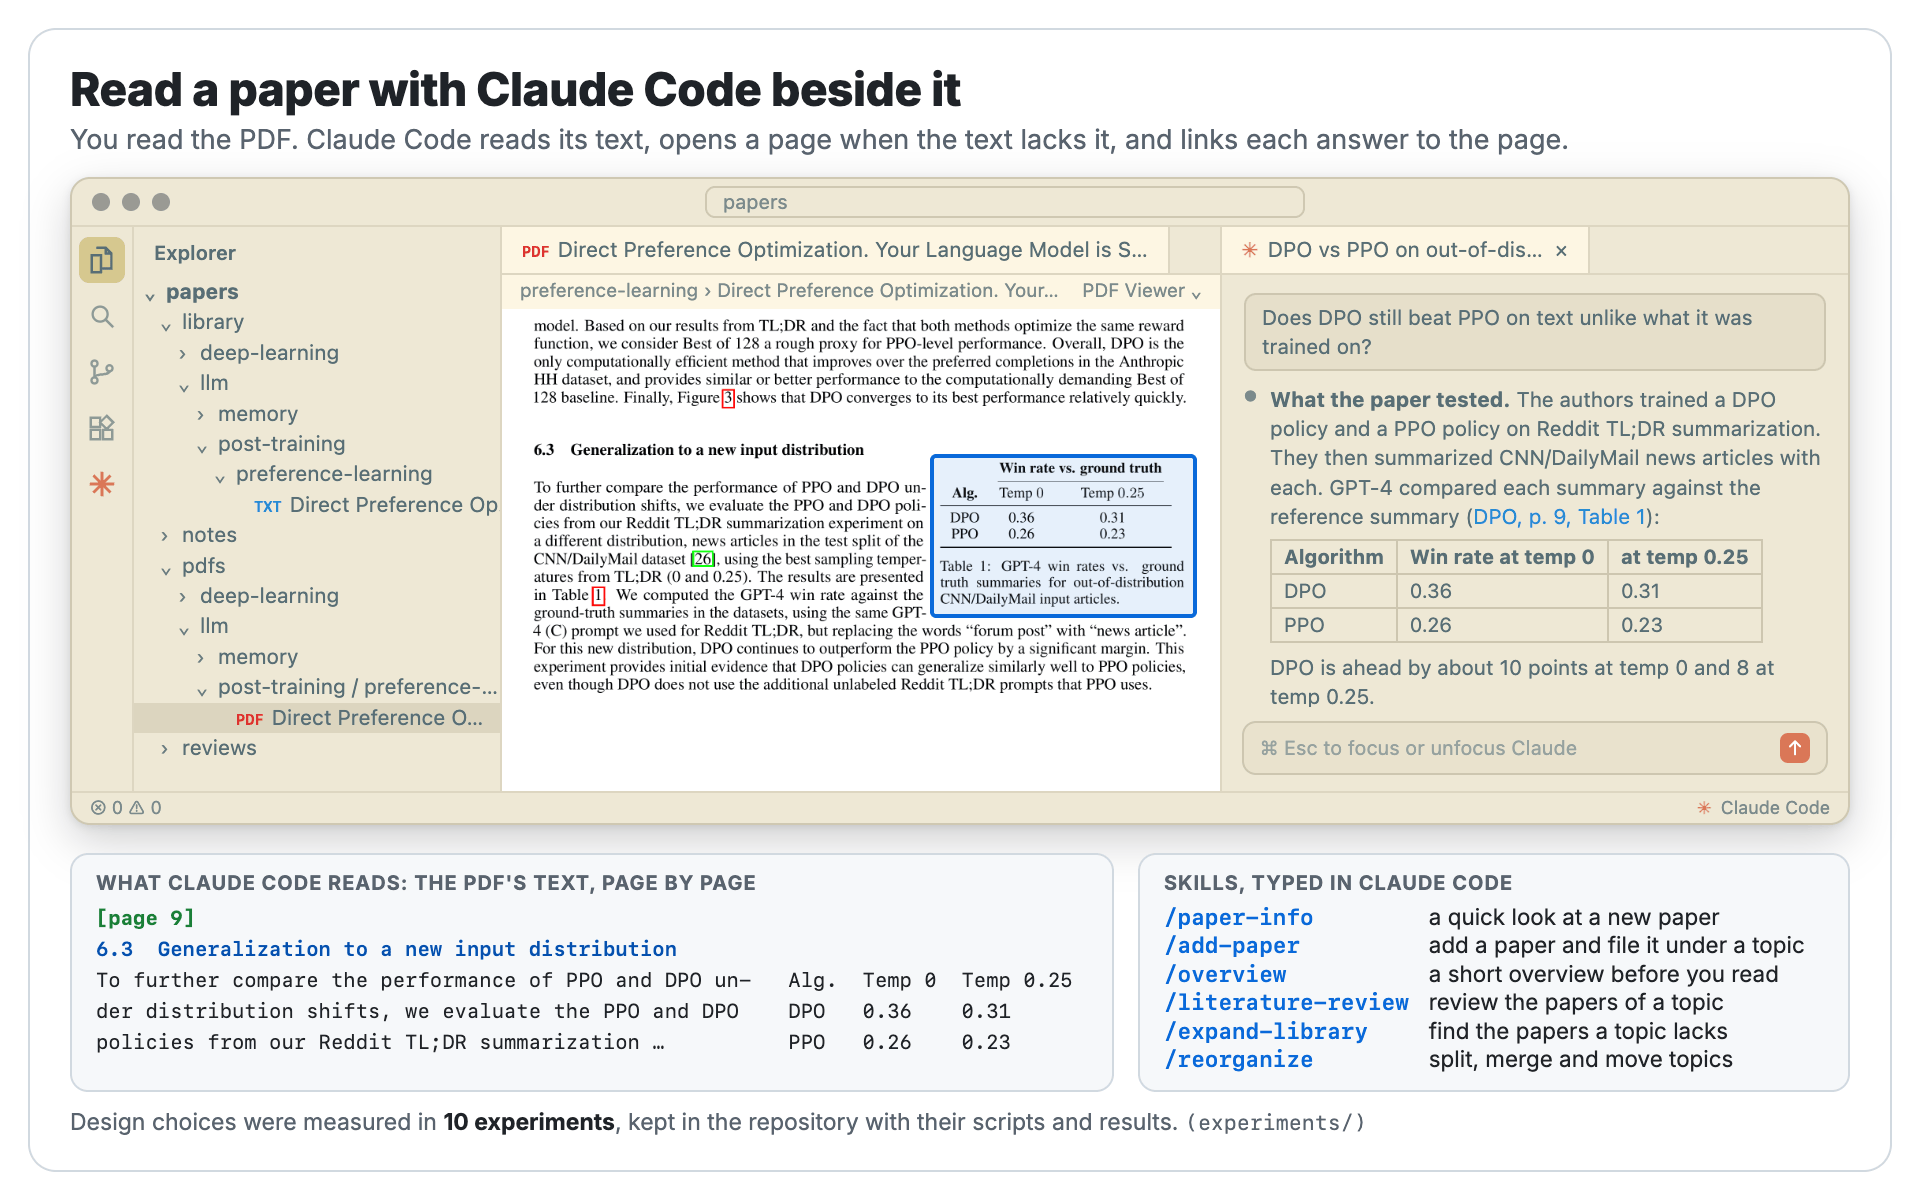
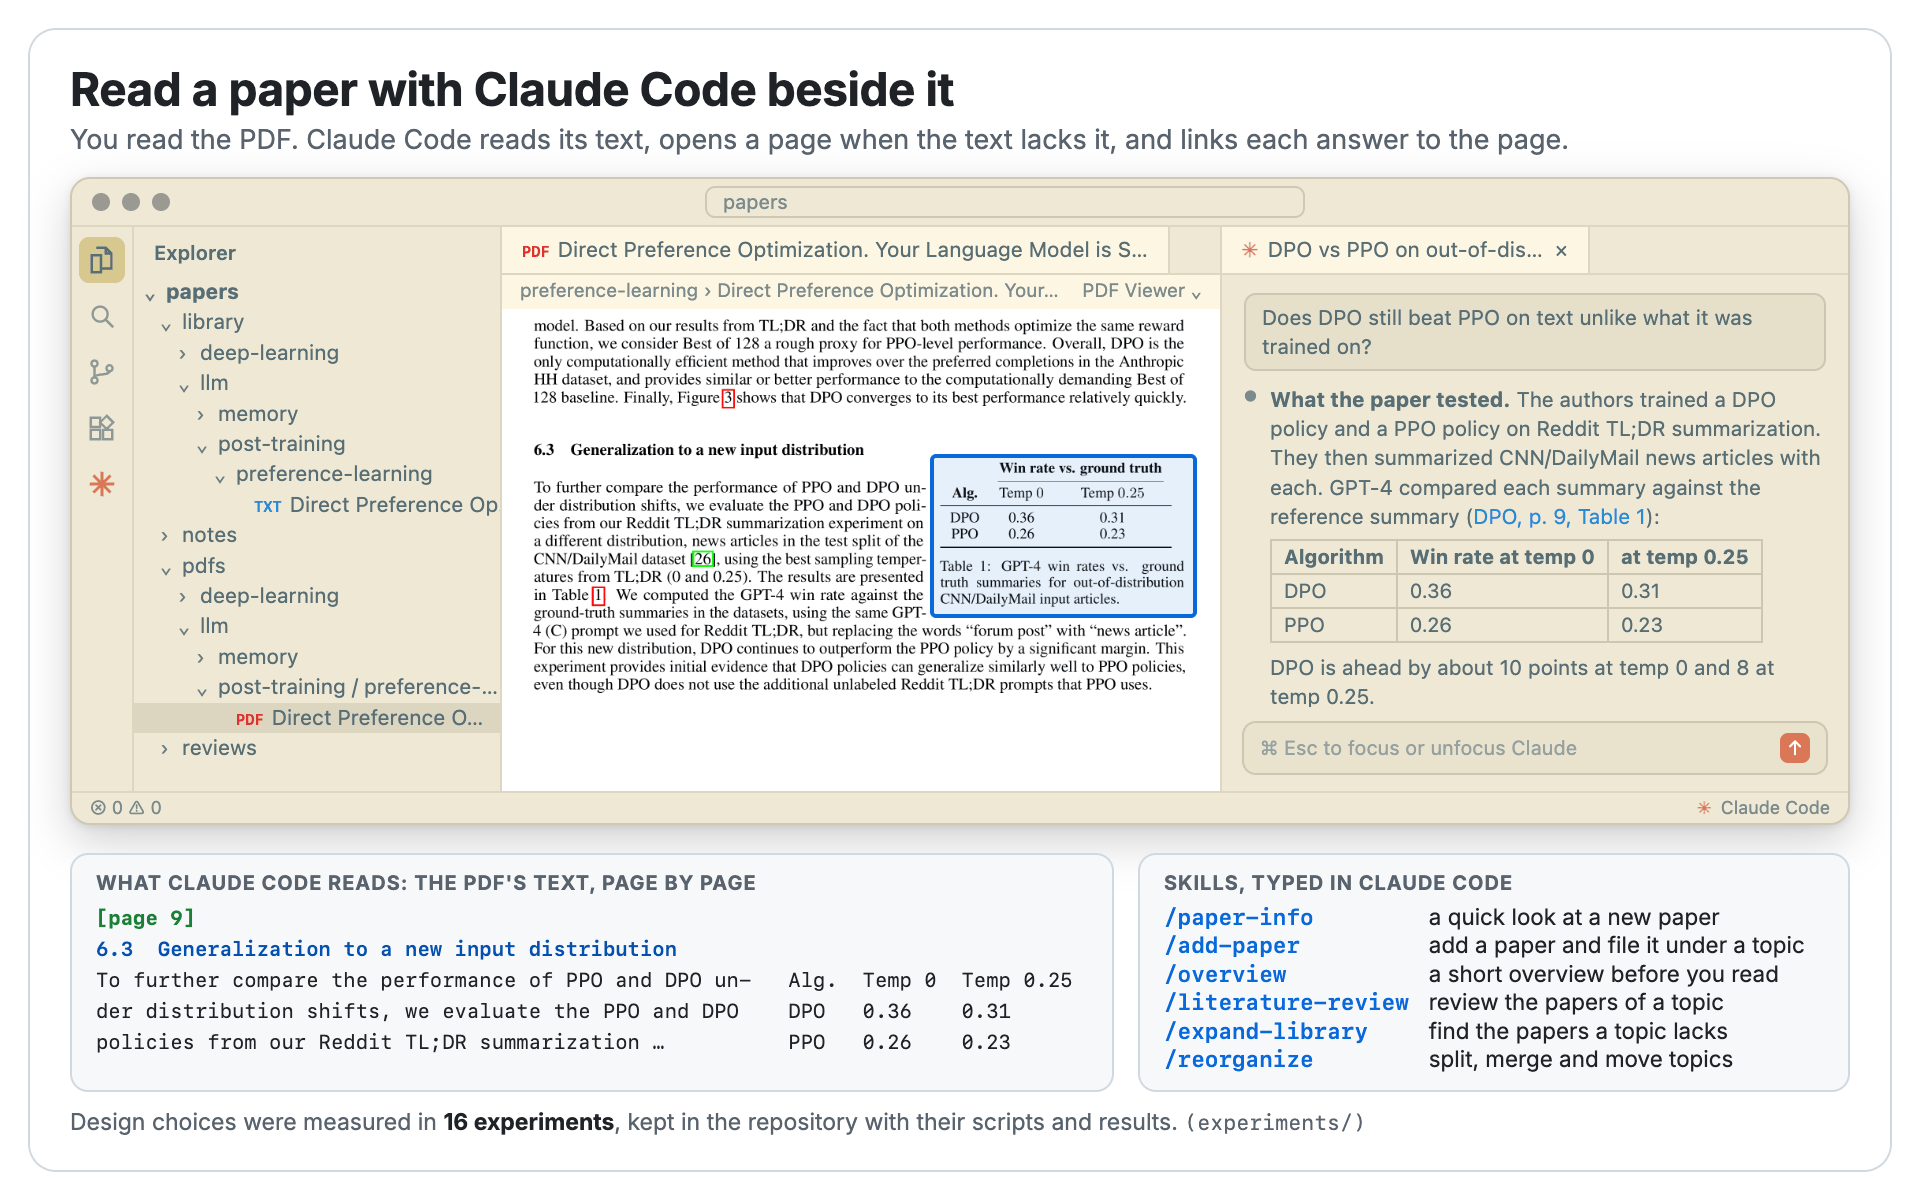
Count 16 experiments, and add meaning search to the experiments picture

diff --git a/assets/pictures/experiments.html b/assets/pictures/experiments.html
@@ -1,10 +1,11 @@
 <!doctype html>
 <!--
-  Source of assets/pictures/experiments.png. Six rows, each from one write-up under experiments/:
-  reading-formats (two rows: tiers B and D, and tier F), web-articles, skill-models, reading-models and
+  Source of assets/pictures/experiments.png. Seven rows, each from one write-up under experiments/:
+  reading-formats (two rows: tiers B and D, and tier F), web-articles, skill-models, reading-models,
   review-usefulness (its second run, of 6 Oct 2026: the sums over the three questions a review
-  covers). The count of 10 is the number of rows in experiments/README.md, which also
-  gives the size of the author's library. Render with assets/pictures/render.sh experiments.
+  covers) and meaning-search (its status line: nDCG@10 on the 32 judged queries). The count of 16
+  is the number of rows in experiments/README.md, which also gives the size of the author's
+  library. Render with assets/pictures/render.sh experiments.
 -->
 <html lang="en">
 <head>
@@ -13,7 +14,7 @@
 <title>Design choices were measured</title>
 <link rel="stylesheet" href="style.css">
 <style>
-  .t { flex: 1 1 auto; display: grid; grid-template-columns: 252px 1fr 236px; grid-template-rows: 26px repeat(6, 1fr); border: 1px solid var(--line); border-radius: 10px; overflow: hidden; }
+  .t { flex: 1 1 auto; display: grid; grid-template-columns: 252px 1fr 236px; grid-template-rows: 26px repeat(7, 1fr); border: 1px solid var(--line); border-radius: 10px; overflow: hidden; }
   .t > div { padding: 0 14px; display: flex; flex-direction: column; justify-content: center; border-top: 1px solid var(--line); font-size: 11.6px; line-height: 1.36; min-width: 0; }
   .t > .th { border-top: 0; background: var(--panel); font: 700 10px Inter, sans-serif; letter-spacing: .06em; text-transform: uppercase; color: var(--muted); height: 26px; }
   .t .q { font-weight: 700; font-size: 13px; }
@@ -29,7 +30,7 @@
 <div class="frame">
   <div class="head big">
     <h1>Design choices were measured</h1>
-    <span class="sub">Each choice of format, converter, prompt and model was tested on real papers before it was adopted. Six of the 10 experiments:</span>
+    <span class="sub">Each choice of format, converter, prompt and model was tested on real papers before it was adopted. Seven of the 16 experiments:</span>
   </div>
 
   <div class="t">
@@ -58,9 +59,13 @@
     <div class="q">Answer from the review, or from the papers?<span class="exp">(experiments/review-usefulness)</span></div>
     <div class="m"><span>Starting from the review, then checking the paper: <b>4.7</b> wrong statements over three questions and <b>22% fewer tokens</b>. Without reviews: 6.3 wrong; without reviews or notes: 3.3. The answers were no more complete.</span></div>
     <div class="d">Start from the review, and check the paper before stating a number</div>
+
+    <div class="q">Which encoder finds the papers a reader describes?<span class="exp">(experiments/meaning-search)</span></div>
+    <div class="m"><span>2,275 papers, 32 queries worded as a reader would, the pooled top 10s graded. nDCG@10: <code>Qwen3-Embedding-0.6B</code> <b>0.752</b>, keyword search (BM25) <b>0.504</b>. The abstract carries the meaning; the one-line summary alone does not.</span></div>
+    <div class="d"><span><code>Qwen3-Embedding-0.6B</code>, on title, summary and abstract</span></div>
   </div>
 
-  <div class="foot"><b>10 experiments</b> are in the repository (<span class="exp" style="font-size: 11px">experiments/</span>), each with its method, scripts and results. Used by the author on a library of about 2,300 papers.</div>
+  <div class="foot"><b>16 experiments</b> are in the repository (<span class="exp" style="font-size: 11px">experiments/</span>), each with its method, scripts and results. Used by the author on a library of about 2,300 papers.</div>
 </div>
 </body>
 </html>

diff --git a/assets/pictures/reading.html b/assets/pictures/reading.html
@@ -111,7 +111,7 @@ policies from our Reddit TL;DR summarization …          PPO   0.26    0.23</di
     </div>
   </div>
 
-  <div class="foot">Design choices were measured in <b>10 experiments</b>, kept in the repository with their scripts and results. <span class="exp">(experiments/)</span></div>
+  <div class="foot">Design choices were measured in <b>16 experiments</b>, kept in the repository with their scripts and results. <span class="exp">(experiments/)</span></div>
 </div>
 </body>
 </html>

diff --git a/README.md b/README.md
@@ -8,7 +8,7 @@ A way to read and organise research papers with a coding agent at the centre. Ea
 
 This repository is the engine. Your library is a separate folder, usually its own private git repository, and you can keep several of them: a personal one, one per employer, one per project. The original PDFs stay outside git, for example in a synced folder you read on a tablet.
 
-![Read a paper with Claude Code beside it. A VS Code window on a library: the explorer shows papers in folders by topic, under library/ as text and under pdfs/ as PDF; the middle pane shows page 9 of the DPO paper with Table 1 highlighted; in the Claude Code panel the question "Does DPO still beat PPO on text unlike what it was trained on?" is answered with the table's win rates and the link "DPO, p. 9, Table 1". Below the window: the same page as the text Claude Code reads, a line [page 9], the heading 6.3 Generalization to a new input distribution, and the text with Table 1 beside it in its own column; and the skills /paper-info, /add-paper, /overview, /literature-review, /expand-library and /reorganize. Design choices were measured in 10 experiments, kept in the repository under experiments/ with their scripts and results.](assets/pictures/reading.png)
+![Read a paper with Claude Code beside it. A VS Code window on a library: the explorer shows papers in folders by topic, under library/ as text and under pdfs/ as PDF; the middle pane shows page 9 of the DPO paper with Table 1 highlighted; in the Claude Code panel the question "Does DPO still beat PPO on text unlike what it was trained on?" is answered with the table's win rates and the link "DPO, p. 9, Table 1". Below the window: the same page as the text Claude Code reads, a line [page 9], the heading 6.3 Generalization to a new input distribution, and the text with Table 1 beside it in its own column; and the skills /paper-info, /add-paper, /overview, /literature-review, /expand-library and /reorganize. Design choices were measured in 16 experiments, kept in the repository under experiments/ with their scripts and results.](assets/pictures/reading.png)
 
 ## Why it exists
 
@@ -97,7 +97,7 @@ The [user guide](docs/user-guide.md) takes it from there, task by task: the layo
 
 Every change to how papers are kept, a prompt or a skill is measured on real papers before it is kept, and some were dropped: the library converted every paper to Markdown until an experiment showed the PDF's text did as well. The write-ups, with their results and limits, are in [experiments/](experiments/README.md).
 
-![Design choices were measured. Six of the 10 experiments, each as question, measurement and decision. What should the agent read, Markdown, the PDF or its text: on 51 questions about single papers the PDF answered 51, its text layer 43 and the converted Markdown 43, the eight lost being values drawn in plots, and across papers the text layers answered as well as the library at $0.30 a question against $0.42, so the PDF's text layer with the PDF beside it. Does the agent open the page when the text lacks a value: with the PDF beside its text it opened the page for 9 of 9 values drawn in figures and 0 of 6 questions the text answers, unprompted, so rely on it and check it on each Claude Code release. Which converter for web articles: Defuddle kept 94–99% of the text, every equation as TeX and the footnotes, Readability printed each formula twice and Trafilatura dropped every heading, so Defuddle on the page as Chrome renders it. Which model files a paper: a blind judge graded the folder best for 57 of 60 papers with Opus, 53 with Sonnet and 49 with Haiku, so Sonnet in one request. Which model reads a paper into its note: errors in the notes numbered 1 for Opus, 6 for Sonnet, 7 for Gemini Pro, 9 for Gemini Flash and 35 for Haiku, so Opus reads. Answer from the review or from the papers: starting from the review and then checking the paper made 4.7 wrong statements over three questions with 22% fewer tokens, against 6.3 without reviews and 3.3 without reviews or notes, so start from the review and check the paper before stating a number. Each row names its folder under experiments/.](assets/pictures/experiments.png)
+![Design choices were measured. Seven of the 16 experiments, each as question, measurement and decision. What should the agent read, Markdown, the PDF or its text: on 51 questions about single papers the PDF answered 51, its text layer 43 and the converted Markdown 43, the eight lost being values drawn in plots, and across papers the text layers answered as well as the library at $0.30 a question against $0.42, so the PDF's text layer with the PDF beside it. Does the agent open the page when the text lacks a value: with the PDF beside its text it opened the page for 9 of 9 values drawn in figures and 0 of 6 questions the text answers, unprompted, so rely on it and check it on each Claude Code release. Which converter for web articles: Defuddle kept 94–99% of the text, every equation as TeX and the footnotes, Readability printed each formula twice and Trafilatura dropped every heading, so Defuddle on the page as Chrome renders it. Which model files a paper: a blind judge graded the folder best for 57 of 60 papers with Opus, 53 with Sonnet and 49 with Haiku, so Sonnet in one request. Which model reads a paper into its note: errors in the notes numbered 1 for Opus, 6 for Sonnet, 7 for Gemini Pro, 9 for Gemini Flash and 35 for Haiku, so Opus reads. Answer from the review or from the papers: starting from the review and then checking the paper made 4.7 wrong statements over three questions with 22% fewer tokens, against 6.3 without reviews and 3.3 without reviews or notes, so start from the review and check the paper before stating a number. Which encoder finds the papers a reader describes: on 32 queries over 2,275 papers, nDCG@10 was 0.752 for Qwen3-Embedding-0.6B against 0.504 for keyword search, so Qwen3 on the title, summary and abstract. Each row names its folder under experiments/.](assets/pictures/experiments.png)
 
 ## Documentation
 
